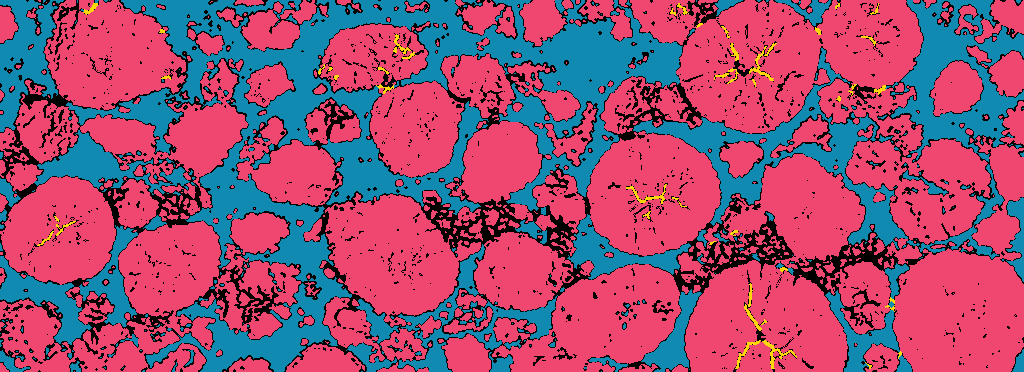
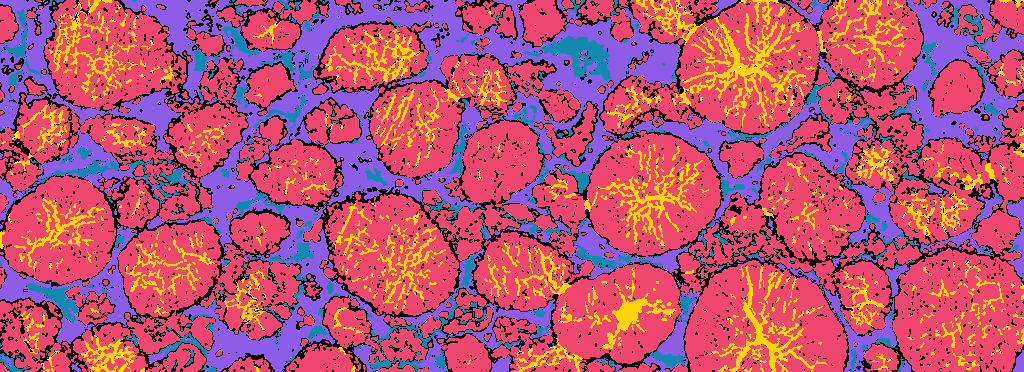
Build four-class truth with DINO and pair DINO with image channels
The truth now has particle, pore, crack and binder. Rules mark confident
seeds, including agglomerate gaps as pore, and the DINO + ExtraTrees
pipeline fills the rest. On it, DINO PCA8 with the 16 image channels beats
both the image RF and DINO PCA32 with 4 pixel channels on crack.

diff --git a/eval/make_truth.py b/eval/make_truth.py
@@ -1,6 +1,11 @@
-"""Build a reviewable particle / pore / crack truth mask for a battery SEM cross-section.
+"""Build a reviewable particle / pore / crack / binder truth mask for a battery SEM cross-section.
 
-Values: 0 particle, 1 pore, 2 crack, 255 ignored. Run with backend/.venv python:
+Rules mark only confident seeds; the app's own DINO + ExtraTrees pipeline, trained on those seeds
+over the whole image, fills the ambiguous rest (fine-grain agglomerates, necks, faint cracks).
+Pixels it is unsure about are left unscored. Because DINO helps make this truth, scores of
+DINO features against it are optimistic; review the overlay before trusting them.
+
+Values: 0 particle, 1 pore, 2 crack, 3 binder, 255 ignored. Run with backend/.venv python:
     python eval/make_truth.py frontend/asset/sample1.png eval/truth/sample1
 """
 import sys
@@ -11,76 +16,87 @@ import numpy as np
 from PIL import Image
 from scipy import ndimage as ndi
 
-PARTICLE, PORE, CRACK, IGNORE = 0, 1, 2, 255
-COLORS = np.array([[239, 71, 111], [17, 138, 178], [255, 214, 10]], np.uint8)
+sys.path.insert(0, str(Path(__file__).resolve().parents[1] / 'backend'))
+from src.config import config  # noqa: E402
+from src.segment.model import Segmenter  # noqa: E402
+
+PARTICLE, PORE, CRACK, BINDER, IGNORE = 0, 1, 2, 3, 255
+COLORS = np.array([[239, 71, 111], [17, 138, 178], [255, 214, 10], [142, 93, 231]], np.uint8)
+CONFIG = dict(sigma=.7, close=3, grain=8, seal=5, depth=6, window=8, solid=.8, contrast=12, flat=6, gap=20, packed=.4, sure=.5, min_crack=8, margin=3, mixed=1)
 
 
 def disk(r):
     return cv2.getStructuringElement(cv2.MORPH_ELLIPSE, (2*r+1, 2*r+1))
 
 
-def segment(gray, cfg):
-    smooth = cv2.GaussianBlur(gray, (0, 0), .8)
-    bright = smooth > cfg['threshold']
-    # Bridge thin dark lines inside particles, then keep only secondary particles large enough to hold cracks.
-    env = cv2.morphologyEx(bright.astype(np.uint8), cv2.MORPH_CLOSE, disk(cfg['close'])).astype(bool)
-    holes = ndi.binary_fill_holes(env) & ~env
-    lab, n = ndi.label(holes)
-    sizes = ndi.sum(holes, lab, range(1, n+1))
-    env |= np.isin(lab, 1+np.flatnonzero(sizes <= cfg['hole']))
-    lab, n = ndi.label(env)
-    sizes = ndi.sum(env, lab, range(1, n+1))
-    big = np.isin(lab, 1+np.flatnonzero(sizes >= cfg['big']))
+def levels(smooth):
+    """Brightness cut-offs from the binder and particle histogram peaks."""
+    hist = np.histogram(smooth, 256, (0, 256))[0]
+    hist = np.convolve(hist, np.ones(9)/9, mode='same')
+    particle = 128 + int(np.argmax(hist[128:]))
+    binder = 40 + int(np.argmax(hist[40:128]))
+    # Particle edge at half height between the two plateaus; pores are clearly darker than binder.
+    return (binder+particle)/2, binder*.6
 
-    # Split touching particles so gaps between two particles stay pores, not cracks.
-    dist = cv2.distanceTransform(big.astype(np.uint8), cv2.DIST_L2, 5)
-    peaks = (dist == ndi.maximum_filter(dist, size=cfg['peak'])) & (dist >= cfg['min_radius'])
-    markers, n = ndi.label(ndi.binary_dilation(peaks, iterations=2))
-    markers = markers.astype(np.int32)
-    markers[ndi.binary_erosion(~big, iterations=2)] = n+1
-    relief = cv2.cvtColor((255-np.clip(dist*4, 0, 255)).astype(np.uint8), cv2.COLOR_GRAY2BGR)
-    ws = cv2.watershed(relief, markers)
-    lines = ndi.binary_dilation((ws == -1) & big, iterations=cfg['line'])
 
-    # Agglomerates of fine grains also close into large blobs; only solid secondary particles hold cracks.
-    ids = np.where(big, np.maximum(ws, 0), 0)
-    ids[ids == n+1] = 0
-    fill = ndi.mean(bright, ids, range(n+1))
-    area = np.bincount(ids.ravel(), minlength=n+1)
-    solid = (fill >= cfg['solid']) & (area >= cfg['big'])
-    solid[0] = False
-    inside = solid[ids] & ~lines
-    inside &= cv2.erode(big.astype(np.uint8), disk(cfg['rim'])).astype(bool) | ~bright
+def seeds(smooth, cfg):
+    edge, dark = levels(smooth)
+    bright = smooth > edge
+    # Opening drops fine grains and thin bridges, leaving the bodies of secondary particles.
+    body = cv2.morphologyEx(bright.astype(np.uint8), cv2.MORPH_OPEN, disk(cfg['grain'])).astype(bool)
+    # Deep inside a solid particle, dark pixels can only be damage. Sealing cracks and filling holes
+    # gives the particle outline; agglomerates and necks between particles fail the solidity test
+    # because binder shows through around them.
+    sealed = ndi.binary_fill_holes(cv2.morphologyEx(body.astype(np.uint8), cv2.MORPH_CLOSE, disk(cfg['seal'])))
+    depth = cv2.distanceTransform(sealed.astype(np.uint8), cv2.DIST_L2, 5)
+    solid = cv2.GaussianBlur(bright.astype(np.float32), (0, 0), cfg['window']) > cfg['solid']
+    deep = (depth > cfg['depth']) & solid
 
-    # Cracks are thin lines darker than the surrounding particle, even when not dark in absolute terms.
     tophat = cv2.morphologyEx(smooth, cv2.MORPH_BLACKHAT, disk(cfg['close']))
-    candidate = inside & ((tophat > cfg['contrast']) | ~bright)
-    # Dense dark networks are grain boundaries in agglomerates, not cracks; they are too ambiguous to score.
-    core = np.zeros(n+1)
-    pieces, count = ndi.label(bright & ~candidate & solid[ids])
-    owner = ndi.maximum(ids, pieces, range(1, count+1)).astype(int)
-    np.maximum.at(core, owner, np.bincount(pieces.ravel(), minlength=count+1)[1:])
-    core = core / np.maximum(area, 1)
-    crowd = cv2.blur(candidate.astype(np.float32), (cfg['window'], cfg['window'])) > cfg['crowd']
-    busy = ((core < cfg['core'])[ids] | ndi.binary_dilation(crowd, iterations=cfg['rim'])) & candidate
-    candidate &= ~busy
-    # Hairline cracks are real but too faint to label confidently; exclude them instead of calling them particle.
-    faint = inside & bright & (tophat > cfg['faint']) & ~candidate
-    thick = cv2.distanceTransform((~bright & big).astype(np.uint8), cv2.DIST_L2, 3) > cfg['max_half_width']
-    crack = candidate & ~ndi.binary_dilation(thick, iterations=cfg['max_half_width'])
-    lab, n = ndi.label(crack, structure=np.ones((3, 3)))
-    sizes = ndi.sum(crack, lab, range(1, n+1))
-    crack &= np.isin(lab, 1+np.flatnonzero(sizes >= cfg['min_crack']))
+    crack = deep & (~bright | (tophat > cfg['contrast']))
+    lab, count = ndi.label(crack, structure=np.ones((3, 3)))
+    crack &= np.isin(lab, 1+np.flatnonzero(ndi.sum(crack, lab, range(1, count+1)) >= cfg['min_crack']))
 
-    mask = np.full(gray.shape, PORE, np.uint8)
-    mask[bright] = PARTICLE
+    away = cv2.distanceTransform((~bright).astype(np.uint8), cv2.DIST_L2, 3) > cfg['margin']
+    mask = np.full(smooth.shape, -1, np.int8)
+    mask[cv2.erode(body.astype(np.uint8), disk(2)).astype(bool) & (tophat < cfg['flat'])] = PARTICLE
+    mask[away & (smooth > dark+10) & (smooth < edge-30)] = BINDER
+    mask[away & (smooth < dark-10)] = PORE
+    # Outside sealed particles nothing is a crack. Grains of agglomerates are particle and the narrow
+    # gaps between packed grains are pore; wider mid-gray regions are binder.
+    out = ~cv2.dilate(sealed.astype(np.uint8), disk(cfg['margin'])).astype(bool)
+    grains = out & bright
+    packed = cv2.GaussianBlur(grains.astype(np.float32), (0, 0), cfg['window']) > cfg['packed']
+    near = cv2.distanceTransform((~bright).astype(np.uint8), cv2.DIST_L2, 3) <= cfg['margin']
+    mask[out & cv2.erode(bright.astype(np.uint8), disk(1)).astype(bool)] = PARTICLE
+    mask[out & ~packed & (smooth > dark) & (smooth < edge-cfg['gap'])] = BINDER
+    mask[out & (smooth < dark-10)] = PORE
+    mask[out & packed & near & (smooth < edge-cfg['gap'])] = PORE
     mask[crack] = CRACK
-    # Edge pixels between bright particles and dark surroundings are mixed; leave them out of scoring.
-    edge = (cv2.morphologyEx(bright.astype(np.uint8), cv2.MORPH_GRADIENT, disk(1)) > 0) & ~crack
-    ambiguous = np.abs(smooth - cfg['threshold']) < cfg['band']
-    mask[edge & ambiguous] = IGNORE
-    mask[busy | (faint & ~crack)] = IGNORE
-    return mask
+    return mask, bright & ~deep, edge, dark
+
+
+def segment(img, cfg):
+    gray = img.astype(np.float32) @ np.array([.2126, .7152, .0722], np.float32)
+    smooth = cv2.GaussianBlur(gray, (0, 0), cfg['sigma'])
+    seed, outer, edge, dark = seeds(smooth, cfg)
+
+    seg = Segmenter()
+    seg.fit([(img, seed, 1.)])
+    feats, model = seg.feature(img), seg.classifier.model
+    probs = np.concatenate([model.predict_proba(feats.pixels(np.arange(i, min(i+65536, feats.shape[0]*feats.shape[1]))))
+                            for i in range(0, feats.shape[0]*feats.shape[1], 65536)]).reshape(*feats.shape, -1)
+
+    mask = model.classes_[probs.argmax(-1)].astype(np.uint8)
+    mask[seed >= 0] = seed[seed >= 0]
+    mask[(probs.max(-1) < cfg['sure']) & (seed < 0)] = IGNORE
+    # Isolated crack specks are texture, not damage; leave them unscored.
+    lab, count = ndi.label(mask == CRACK, structure=np.ones((3, 3)))
+    mask[np.isin(lab, 1+np.flatnonzero(ndi.sum(mask == CRACK, lab, range(1, count+1)) < cfg['min_crack']))] = IGNORE
+    # The one-pixel rim where a particle outline meets binder/pore mixes both; it is not scored.
+    rim = cv2.morphologyEx(outer.astype(np.uint8), cv2.MORPH_GRADIENT, disk(cfg['mixed'])).astype(bool)
+    mask[rim & (mask != CRACK) & (np.abs(smooth-edge) < (edge-dark)/4)] = IGNORE
+    return mask, seed, dict(edge=round(float(edge), 1), dark=round(float(dark), 1))
 
 
 def overlay(gray, mask):
@@ -92,23 +108,21 @@ def overlay(gray, mask):
     return rgb.astype(np.uint8)
 
 
-CONFIG = dict(threshold=150, close=3, hole=150, big=1200, peak=41, min_radius=10,
-              line=2, solid=.9, rim=3, contrast=22, core=.6, window=21, crowd=.3, faint=12, max_half_width=3, min_crack=12, band=25)
-
-
 def main(src, dst):
+    config.feature.kind, config.feature.cellpose = 'dino', 'none'
     img = np.asarray(Image.open(src).convert('RGB'))
-    gray = img.astype(np.float32) @ np.array([.2126, .7152, .0722], np.float32)
-    mask = segment(gray, CONFIG)
+    mask, seed, cuts = segment(img, CONFIG)
     dst = Path(dst)
     dst.parent.mkdir(parents=True, exist_ok=True)
     out = Image.fromarray(mask, 'P')
-    out.putpalette([*COLORS.ravel(), *[0]*(256*3-9)])
+    out.putpalette([*COLORS.ravel(), *[0]*(256*3-COLORS.size)])
     out.save(f'{dst}_mask.png')
-    Image.fromarray(overlay(gray.astype(np.uint8), mask)).save(f'{dst}_overlay.png')
-    counts = {name: int(np.count_nonzero(mask == v)) for name, v in
-              (('particle', PARTICLE), ('pore', PORE), ('crack', CRACK), ('ignore', IGNORE))}
-    print(counts)
+    gray = (img.astype(np.float32) @ np.array([.2126, .7152, .0722], np.float32)).astype(np.uint8)
+    Image.fromarray(overlay(gray, mask)).save(f'{dst}_overlay.png')
+    Image.fromarray(overlay(gray, np.where(seed < 0, IGNORE, seed.astype(np.int16)).astype(np.uint8))).save(f'{dst}_seeds.png')
+    names = (('particle', PARTICLE), ('pore', PORE), ('crack', CRACK), ('binder', BINDER), ('ignore', IGNORE))
+    print(cuts, {name: int(np.count_nonzero(mask == v)) for name, v in names},
+          'seeds', {name: int(np.count_nonzero(seed == v)) for name, v in names[:4]})
 
 
 if __name__ == '__main__':

diff --git a/backend/tests/segment/test_dino.py b/backend/tests/segment/test_dino.py
@@ -6,6 +6,7 @@ from fastapi import HTTPException
 from pydantic import ValidationError
 from src.config import config, DinoConfig
 from src.segment.dino import DinoEncoder, Level, Pyramid, PATCH, channels
+from src.segment.feature import image_features
 from src.segment.model import Segmenter
 
 
@@ -69,7 +70,7 @@ class DinoTests(unittest.TestCase):
             DinoEncoder().load()
         self.assertEqual(error.exception.status_code, 503)
 
-    def test_segmenter_trains_on_dino_and_pixel_channels_without_cellpose(self):
+    def test_segmenter_trains_on_dino_and_image_channels_without_cellpose(self):
         rng = np.random.default_rng(0)
         image = np.zeros((24, 32, 3), np.uint8); image[:, 16:] = 200
         def run(img, progress):
@@ -83,7 +84,7 @@ class DinoTests(unittest.TestCase):
             model.fit([(image, labels)])
             self.assertEqual(len(model.pca), 2)
             features = model.feature(image)
-            self.assertEqual(features.pixels(np.arange(3)).shape, (3, 4+2*min(config.feature.components, 8)))
+            self.assertEqual(features.pixels(np.arange(3)).shape, (3, image_features(image).shape[-1]+2*min(config.feature.components, 8)))
             pred, _ = model.classifier.predict(features)
         self.assertEqual(encode.call_count, 1)
         self.assertTrue((pred[:, :8] == 0).all() and (pred[:, 24:] == 1).all())

diff --git a/backend/src/segment/model.py b/backend/src/segment/model.py
@@ -8,7 +8,7 @@ from src.segment.runtime import runtime
 from src.segment.dino import encoder as dino
 from src.segment.classifier import Classifier
 from src.segment.cache import Cache
-from src.segment.feature import Features, image_features, pixel_features
+from src.segment.feature import Features, image_features
 from src.segment.sample import quotas, spatial
 from src.segment.context import extract as extract_context
 
@@ -106,9 +106,7 @@ class Segmenter:
         report = progress or self.report
         report(stage='features', done=0, total=1)
         local = None
-        if config.feature.kind == 'dino':
-            local = pixel_features(image)
-        elif config.feature.kind != 'encoder':
+        if config.feature.kind != 'encoder':
             local = image_features(image, config.feature.texture)
         tokens = None
         if config.feature.kind != 'image':

diff --git a/eval/evaluate.py b/eval/evaluate.py
@@ -16,7 +16,7 @@ sys.path.insert(0, str(Path(__file__).resolve().parents[1] / 'backend'))
 from src.config import config  # noqa: E402
 from src.segment.model import Segmenter  # noqa: E402
 
-NAMES = ('particle', 'pore', 'crack')
+NAMES = ('particle', 'pore', 'crack', 'binder')
 
 
 def load(image_path, truth_path, width):
@@ -60,7 +60,7 @@ def strokes(train, count, seed=0, length=24, radius=2, margin=4):
         win = (slice(y0, y1), slice(x0, x1))
         out[win][d & (train[win] == label)] = label
 
-    for label in (0, 1):
+    for label in (0, 1, 3):
         # People brush well inside a region, away from uncertain edges.
         core = ndi.distance_transform_edt(train == label) > margin
         ys, xs = np.nonzero(core)

diff --git a/backend/src/segment/feature.py b/backend/src/segment/feature.py
@@ -12,14 +12,6 @@ def luminance(image):
     return np.clip((gray-low)/(high-low), 0, 1) if high > low else np.zeros_like(gray)
 
 
-def pixel_features(image):
-    """Pixel-exact companions to DINO tokens, which cannot place edges finer than their stride."""
-    gray = luminance(image)
-    # Brightness relative to fine, local and wide surroundings separates small grains from their matrix.
-    return np.stack([gray] + [gray-gaussian_filter(gray, sigma, mode='reflect') for sigma in (1, 4, 16)],
-                    axis=-1).astype(np.float32)
-
-
 def image_features(image, texture=False):
     gray = luminance(image)
     scale = min(gray.shape) / 512

diff --git a/backend/src/config.py b/backend/src/config.py
@@ -33,7 +33,7 @@ class ExportConfig(BaseModel):
 
 class FeatureConfig(BaseModel):
     kind: Literal['image', 'encoder', 'hybrid', 'dino'] = 'image'
-    components: Literal[32, 64] = 32
+    components: Literal[8, 16, 32, 64] = 8
     texture: bool = False
     flow: bool = True
     cache_mb: int = Field(default=256, gt=0)

diff --git a/docs/dino-features.md b/docs/dino-features.md
@@ -1,6 +1,6 @@
 # DINOv3 multi-scale RF features
 
-2026-10-28. The default RF input is now frozen DINOv3 ViT-B/16 tokens at several input magnifications plus four pixel channels. Cellpose context is off by default (`feature.cellpose: none`); CPDINO is still used for **Find regions**.
+2026-10-28. The default RF input is now frozen DINOv3 ViT-B/16 tokens at several input magnifications plus the 16 image channels of the previous RF. Cellpose context is off by default (`feature.cellpose: none`); CPDINO is still used for **Find regions**.
 
 ## Why
 
@@ -8,8 +8,8 @@ On battery SEM cross-sections the previous image-only RF separated classes mostl
 
 The training-free FSSDINO method ([arXiv 2602.07550](https://arxiv.org/abs/2602.07550), [code](https://github.com/hussni0997/fssdino)) shows that frozen DINOv3 features separate semantic regions well across domains. Its 16 px tokens cannot draw 2–3 px cracks directly. Two changes close that gap:
 
-- **Upscale before encoding.** At scale `s` each token covers `16/s` original pixels. The default `[2, 4, 8]` gives 8, 4 and 2 px tokens; the coarse level keeps context and the fine level reaches crack width. Each level gets its own PCA (`feature.components`, default 32).
-- **Pixel channels beside the tokens.** Luminance and luminance minus Gaussian blur at σ = 1, 4 and 16 px. Tokens are bilinearly interpolated, so these channels place edges and small bright grains exactly.
+- **Upscale before encoding.** At scale `s` each token covers `16/s` original pixels. The default `[2, 4, 8]` gives 8, 4 and 2 px tokens; the coarse level keeps context and the fine level reaches crack width. Each level gets its own PCA (`feature.components`, default 8).
+- **Image channels beside the tokens.** The previous RF's 16 brightness, gradient and ridge channels. Tokens are bilinearly interpolated, so these channels place edges, thin cracks and small grains exactly, and they keep pore and binder apart by brightness. With 8 PCA dims per level the trees pick them often enough; with 32 dims they were drowned out.
 
 Tiles of `dino.tile` px overlap by `dino.overlap` px and are blended with a linear taper. The FSSDINO class prototypes and Gram maps were tried as RF channels and dropped: with 10 clicks per class they collapsed (crack F1 ≈ 0.05), and with dense labels they leaked training labels into features.
 
@@ -19,6 +19,7 @@ Tiles of `dino.tile` px overlap by `dino.overlap` px and are blended with a line
 
 | Key | Default | Meaning |
 |---|---|---|
+| `feature.components` | 8 | PCA dims per DINO level |
 | `feature.kind` | `dino` | `image`, `encoder` and `hybrid` keep the previous CPDINO-based features |
 | `dino.checkpoint` | `weights/dinov3_vitb16_pretrain_lvd1689m-73cec8be.pth` | Downloaded separately under the DINOv3 License; not tracked by Git |
 | `dino.scales` | `[2, 4, 8]` | Input magnifications |
@@ -30,26 +31,33 @@ Scale 8 at the default width of 768 px stores about 110 MiB of tokens per image.
 
 ## Evaluation
 
-`eval/make_truth.py` builds a reviewable particle / pore / crack mask for `frontend/asset/sample1.png`. It thresholds brightness, splits particles with watershed and marks thin dark lines inside solid particles as cracks. Fine-grain agglomerates, hairline cracks and mixed edge pixels are set to 255 and are not scored. Because particle and pore come from a brightness threshold, this truth favours brightness features for those two classes. Read crack scores and the overlays before reading particle/pore IoU.
+`eval/make_truth.py` builds a reviewable four-class mask (particle, pore, crack, binder; 255 unscored) for `frontend/asset/sample1.png`:
 
-`eval/evaluate.py` trains on the left half and scores the right half. `--clicks N` places N small dabs per class; `--strokes N` draws N short strokes per class and traces cracks. `crack_f1_2px` counts a crack hit within 2 px, because thin-line IoU is dominated by 1 px offsets.
+- Rules mark only confident seeds: flat particle interiors, wide mid-gray binder, dark pores, dark lines deep inside solid particles as crack, and, outside particles, agglomerate grains as particle with the narrow gaps between them as pore.
+- The app's DINO + ExtraTrees pipeline, trained on those seeds, fills the rest. Pixels below 0.5 confidence, crack specks under 8 px and the mixed particle rim are unscored.
 
-Width 768, three label seeds each, RF settings unchanged:
+The seeds come from brightness, so particle/pore/binder favour brightness features; the DINO fill favours DINO on faint cracks. Review the overlay in the app before trusting the numbers.
 
-| Labels | Features | Particle IoU | Pore IoU | Crack IoU | Crack F1 (2 px) |
-|---|---|---:|---:|---:|---:|
-| 10 clicks | image (previous) | 0.911 | 0.931 | 0.104 | 0.240 |
-| | DINO 2/4/8 + pixel | 0.944 | 0.869 | 0.191 | 0.380 |
-| 30 clicks | image (previous) | 0.934 | 0.953 | 0.128 | 0.293 |
-| | DINO 2/4/8 + pixel | 0.980 | 0.961 | 0.372 | 0.664 |
-| 30 strokes | image (previous) | 0.831 | 0.879 | 0.053 | 0.158 |
-| | DINO 2/4/8 + pixel | 0.898 | 0.790 | 0.241 | 0.462 |
+`eval/evaluate.py` trains on the left half and scores the right half. `--clicks N` places N small dabs per class; `--strokes N` draws N short strokes per class and traces cracks. `crack_f1_2px` counts a crack hit within 2 px.
 
-Visually, the previous features mark gaps in fine-grain agglomerates as cracks; the DINO features keep cracks inside particles. The remaining pore error with strokes comes from small bright grains in agglomerates that strokes rarely cover.
+Truth v2, native width 1024, seed 0, 30 labels per class:
+
+| Labels | Features | Particle | Pore | Crack | Binder | Crack F1 (2 px) |
+|---|---|---:|---:|---:|---:|---:|
+| clicks | image (previous) | 0.901 | 0.600 | 0.577 | 0.861 | 0.849 |
+| | DINO PCA32 + 4 pixel channels | 0.874 | 0.414 | 0.440 | 0.698 | 0.842 |
+| | DINO PCA8 + 16 image channels | 0.931 | 0.547 | 0.642 | 0.830 | 0.905 |
+| strokes | image (previous) | 0.854 | 0.470 | 0.502 | 0.870 | 0.845 |
+| | DINO PCA32 + 4 pixel channels | 0.806 | 0.314 | 0.376 | 0.818 | 0.824 |
+| | DINO PCA8 + 16 image channels | 0.881 | 0.413 | 0.552 | 0.844 | 0.887 |
+
+The default is the last row. It is best on crack and particle; the image-only RF still separates pore and binder better. Downscaling to width 768 thins the cracks and lowered every DINO variant, so evaluate at native width.
+
+On the earlier three-class truth (v1, few dark cracks only), the PCA8 + image channel variant was worse with strokes (crack F1 0.70 → 0.19). That truth missed most faint cracks, so v2 is the reference; this disagreement is the main reason to check results on your own images.
 
 ### Classifier
 
-With these features fixed, ExtraTrees (same settings as the previous RF: 200 trees, depth 10, leaf 2, sqrt, balanced) replaced the RF. Width 768, three seeds, crack F1 (2 px):
+With DINO PCA32 + 4 pixel channels fixed and the v1 truth, ExtraTrees (same settings as the previous RF: 200 trees, depth 10, leaf 2, sqrt, balanced) replaced the RF. Width 768, three seeds, crack F1 (2 px):
 
 | Labels | RF | ExtraTrees |
 |---|---:|---:|
@@ -64,6 +72,7 @@ Timing on an Apple M-series GPU (MPS), sample1 at width 768: first prediction in
 
 ## Limits
 
-- One image and an automatically built truth. Particle/pore scores are biased towards brightness features, and no other material or modality has been tested yet.
+- One image and an automatically built truth that DINO helped fill; no other material or modality has been tested yet.
 - CPDINO-based features and Cellpose context were not compared, because the CPDINO checkpoint was a Git LFS pointer in this workspace.
+- Image-only features remain better for pore vs binder.
 - `channels: enhanced` was better with 30–100 clicks and worse with 10, so `rgb` stays the default.
